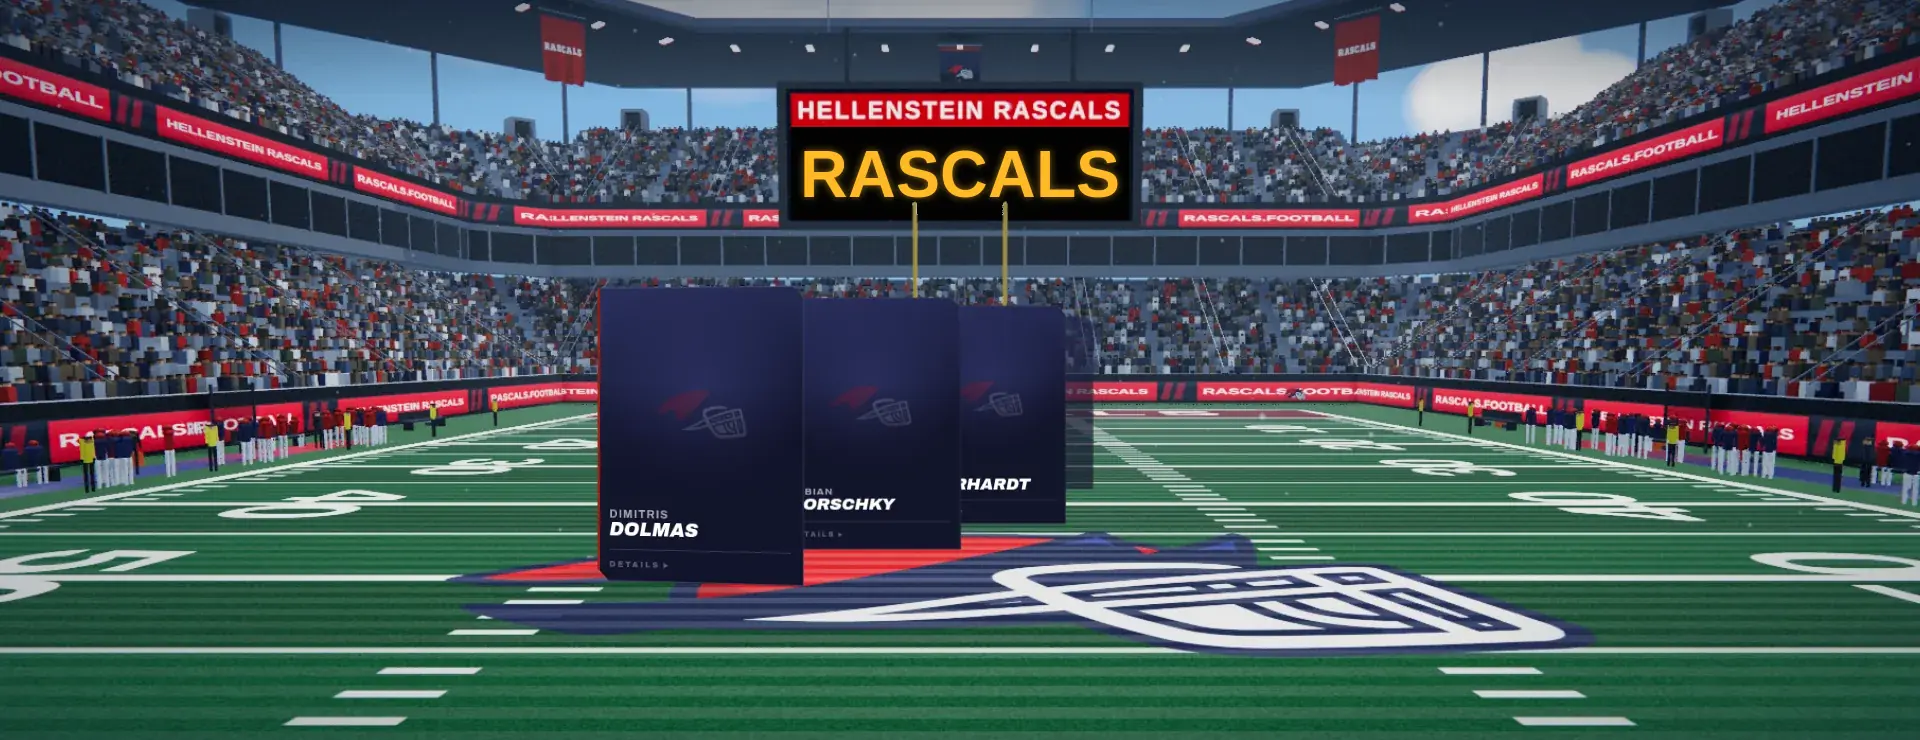
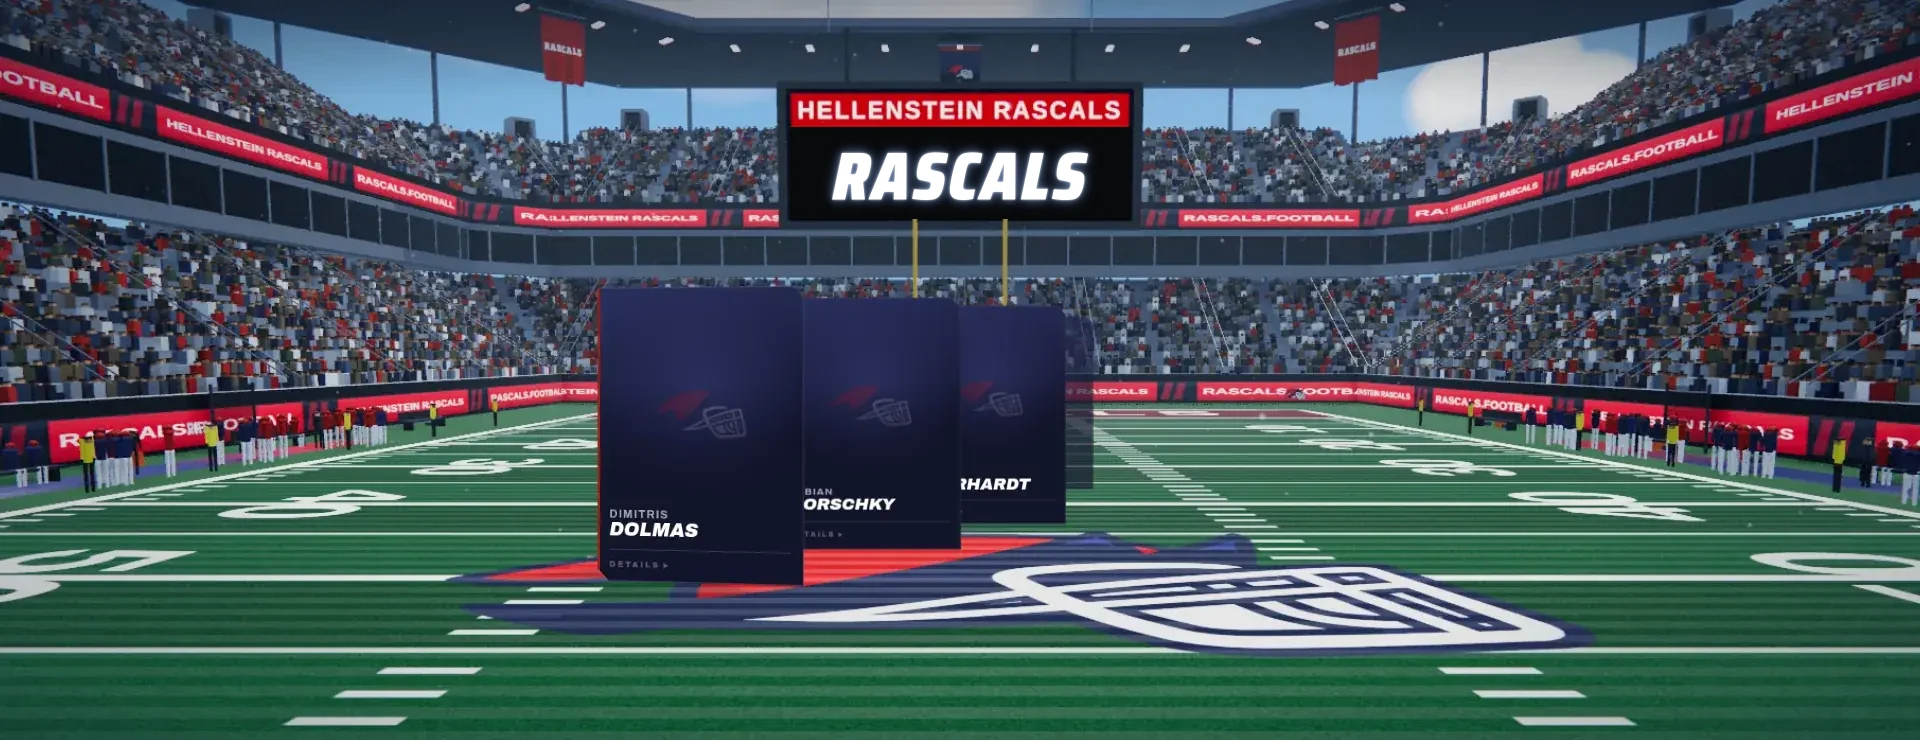
Teamshop: Header ohne Balken, Kacheln mit Produktfotos, Oldschool-Promo, weisse Anzeigetafel
- Startseite: Header liegt durchsichtig ueber dem Stadion, Menuepunkte mit
  rotem Verlauf und Transparenz (aktiv und beim Ueberfahren).
- Kategorie-Kacheln zeigen freigestellte Rascals-Artikel aus dem Shop;
  im Editor per Auswahl austauschbar, eigene Bilder haben Vorrang.
- Promo-Banner wirbt fuer die Oldschool-Kollektion statt "Rascals Defense".
- Banner endet schraeg an der Unterkante des Laufbands.
- Anzeigetafel: RASCALS in Weiss, kursive Saira mit LED-Schein.
- Hero-Text rueckt wie in der Vorlage zur Mitte.

Claude-Session: https://claude.ai/code/session_01VkdeDPYWPcbrmHGSxU5d2N

Changed region(s): [[0.4062, 0.1865, 0.5938, 0.2797]]

diff --git a/shopify-theme/rascals-teamshop/assets/teamshop.css b/shopify-theme/rascals-teamshop/assets/teamshop.css
@@ -211,6 +211,13 @@ body:hover .football-cursor { opacity: .85; }
    ===================================================================== */
 .site-header { z-index: 50; color: var(--white); background: linear-gradient(180deg, #071121 0%, #030a15 100%); border-bottom: 1px solid var(--line-dark); box-shadow: 0 10px 30px rgba(0, 0, 0, .35); }
 .site-header--sticky { position: sticky; top: 0; }
+/* Startseite wie in der Vorlage: kein eigener Balken. Der Header liegt
+   durchsichtig ueber dem Stadionbild; nur ein weicher Verlauf von oben
+   haelt die Menuepunkte lesbar. Der Hero rueckt dafuer nach oben unter
+   den Header und gleicht das mit Innenabstand aus. */
+.shopify-section:has(> .site-header--home) { position: relative; z-index: 50; margin-bottom: -75px; }
+.site-header--home { background: linear-gradient(180deg, rgba(2, 7, 16, .62) 0%, rgba(2, 7, 16, .26) 55%, rgba(2, 7, 16, 0) 100%); border-bottom: 0; box-shadow: none; }
+.template-index .hero-stage { padding-top: 75px; }
 .site-header__inner { display: grid; grid-template-columns: auto 1fr auto; align-items: center; gap: clamp(1rem, 2.4vw, 2.4rem); min-height: 74px; }
 
 /* Logo wie in der Vorlage: ragt als Abzeichen etwas aus der Leiste. */
@@ -241,13 +248,23 @@ body:hover .football-cursor { opacity: .85; }
 }
 .desktop-nav > ul > li > a i { display: inline-flex; opacity: .85; }
 .desktop-nav > ul > li > a i .line-icon { width: 14px; height: 14px; stroke-width: 2; }
-.desktop-nav > ul > li > a:hover { color: #ffb3bd; }
+.desktop-nav > ul > li > a:hover { color: var(--white); }
 /* Aktiver Punkt: rotes Parallelogramm hinter dem Wort. */
-.desktop-nav > ul > li > a[aria-current="page"]::before {
+.desktop-nav > ul > li > a::before {
   position: absolute; z-index: -1; inset: 1.15rem -1rem; content: "";
-  background: linear-gradient(180deg, var(--red-hi) 0%, var(--red) 55%, var(--red-lo) 100%);
-  box-shadow: 0 6px 18px rgba(212, 16, 42, .4);
-  transform: skewX(var(--skew));
+  background: linear-gradient(180deg, rgba(255, 70, 88, .26) 0%, rgba(227, 19, 43, .14) 60%, rgba(150, 8, 24, .1) 100%);
+  border: 1px solid rgba(255, 90, 107, .35);
+  opacity: 0; transform: skewX(var(--skew)) scaleX(.9);
+  transition: opacity .2s ease, transform .2s ease;
+}
+.desktop-nav > ul > li > a:hover::before, .desktop-nav > ul > li > a:focus-visible::before { opacity: 1; transform: skewX(var(--skew)); }
+/* Aktiver Punkt wie in der Vorlage: rotes Parallelogramm mit Verlauf,
+   leicht durchscheinend, damit das Stadion dahinter sichtbar bleibt. */
+.desktop-nav > ul > li > a[aria-current="page"]::before {
+  opacity: 1; transform: skewX(var(--skew));
+  background: linear-gradient(180deg, rgba(255, 61, 80, .92) 0%, rgba(227, 19, 43, .84) 55%, rgba(160, 9, 27, .8) 100%);
+  border: 0; border-top: 1px solid rgba(255, 150, 160, .55);
+  box-shadow: 0 6px 18px rgba(212, 16, 42, .38), inset 0 -10px 18px rgba(90, 0, 12, .25);
 }
 .desktop-nav > ul > li > a[aria-current="page"]:hover { color: var(--white); }
 .desktop-nav .nav-teaser { color: #ff5a6b; }
@@ -313,7 +330,7 @@ body:hover .football-cursor { opacity: .85; }
   background: #0a1626;
 }
 /* Platz unten, in den sich die Kachelreihe schiebt. */
-.hero-stage--under-tiles { min-height: clamp(470px, 32vw, 780px); padding-bottom: 118px; align-items: center; }
+.hero-stage--under-tiles { min-height: clamp(470px, 32vw, 780px); padding-bottom: 138px; align-items: center; }
 .hero-stage__layers { position: absolute; inset: 0; z-index: -1; }
 .hero-stage__layers > * { position: absolute; }
 
@@ -322,7 +339,7 @@ body:hover .football-cursor { opacity: .85; }
 .hero-stage__backdrop {
   z-index: 0; inset: 0; width: 100%; height: 100%;
   object-fit: cover; object-position: center 30%;
-  filter: brightness(.46) saturate(.55) contrast(1.18) blur(2px);
+  filter: brightness(.5) saturate(.6) contrast(1.18) blur(1.4px);
   transform: scale(1.3); transform-origin: 50% 82%;
 }
 .hero-stage__layers::before {
@@ -384,7 +401,7 @@ body:hover .football-cursor { opacity: .85; }
 }
 
 .hero-stage__content { position: relative; z-index: 2; padding-block: clamp(2rem, 3vw, 2.8rem) 1rem; }
-.hero-stage__copy { max-width: 640px; margin-left: clamp(0px, 20vw, 300px); }
+.hero-stage__copy { max-width: 640px; margin-left: clamp(0px, 24vw, 420px); }
 
 .hero-stage__eyebrow { margin: 0 0 .9rem; font-size: .9rem; font-style: italic; font-weight: 400; font-stretch: 100%; letter-spacing: .55em; color: #f2f4f7; text-transform: uppercase; }
 
@@ -426,10 +443,10 @@ body:hover .football-cursor { opacity: .85; }
    an ihrer Aussenkante rot, wie in der Vorlage.
    ===================================================================== */
 .cat-tiles { position: relative; z-index: 6; }
-.cat-tiles--overlap { margin-top: -128px; }
+.cat-tiles--overlap { margin-top: -146px; }
 .cat-tiles__rail { display: flex; gap: 8px; padding: 0 clamp(1rem, 3vw, 2.6rem) 10px; overflow-x: auto; scrollbar-width: none; }
 .cat-tiles__rail::-webkit-scrollbar { display: none; }
-.cat-tile { flex: 1 1 0; min-width: 140px; height: 118px; }
+.cat-tile { flex: 1 1 0; min-width: 140px; height: 138px; }
 .cat-tile:focus-visible { outline: none; }
 .cat-tile__skew {
   position: relative; display: block; height: 100%; overflow: hidden;
@@ -448,8 +465,10 @@ body:hover .football-cursor { opacity: .85; }
 .cat-tile__media { position: absolute; transform: skewX(var(--unskew)); }
 .cat-tile__media img { width: 100%; height: 100%; transition: transform .45s cubic-bezier(.2, .8, .2, 1); }
 .cat-tile:hover .cat-tile__media img { transform: scale(1.07); }
-.cat-tile--cutout .cat-tile__media { inset: 6% 12% 34% 12%; }
-.cat-tile--cutout .cat-tile__media img { object-fit: contain; filter: drop-shadow(0 8px 12px rgba(0, 0, 0, .6)); }
+.cat-tile--cutout .cat-tile__media { inset: 7% 14% 31% 14%; }
+/* Lichtkegel hinter dem freigestellten Artikel, wie in der Vorlage. */
+.cat-tile--cutout .cat-tile__skew { background: radial-gradient(ellipse 60% 48% at 50% 40%, rgba(70, 98, 140, .42), rgba(70, 98, 140, 0) 70%), linear-gradient(180deg, rgba(22, 33, 52, .94) 0%, rgba(8, 14, 26, .97) 100%); }
+.cat-tile--cutout .cat-tile__media img { object-fit: contain; filter: drop-shadow(0 0 1px rgba(255, 255, 255, .35)) drop-shadow(0 10px 12px rgba(0, 0, 0, .65)); }
 .cat-tile--fill .cat-tile__media { inset: -2% -14%; }
 .cat-tile--fill .cat-tile__media img { object-fit: cover; opacity: .8; }
 .cat-tile--fill .cat-tile__media::after { position: absolute; inset: 0; content: ""; background: linear-gradient(0deg, rgba(8, 14, 26, .96) 0%, rgba(8, 14, 26, .6) 38%, rgba(8, 14, 26, .06) 72%); }
@@ -544,7 +563,10 @@ body:hover .football-cursor { opacity: .85; }
    Bilder laufen darunter weiter, und es bleibt keine helle Luecke. */
 :root { --play-ticker-h: calc(2rem + clamp(1.1rem, 1.9vw, 1.6rem) * 1.2); }
 .shopify-section:has(.promo-band) + .shopify-section > .play-ticker { margin-top: calc(-1 * var(--play-ticker-h)); }
-.shopify-section:has(.promo-band):has(+ .shopify-section > .play-ticker) .promo-band { min-height: calc(196px + var(--play-ticker-h)); border-bottom: 0; }
+/* Unterkante des Banners laeuft mit der Schraege des Laufbands (skewY -1deg,
+   rechts um tan(1deg) * Breite hoeher): unter dem Laufband bleibt kein
+   Bildstreifen stehen, links reicht das Bild entsprechend tiefer. */
+.shopify-section:has(.promo-band):has(+ .shopify-section > .play-ticker) .promo-band { min-height: calc(196px + var(--play-ticker-h)); border-bottom: 0; clip-path: polygon(0 0, 100% 0, 100% calc(100% - 1.75vw - 1px), 0 calc(100% - 1px)); }
 @media (min-width: 1101px) {
   .shopify-section:has(.promo-band):has(+ .shopify-section > .play-ticker) .promo-band__copy,
   .shopify-section:has(.promo-band):has(+ .shopify-section > .play-ticker) .promo-band__product { padding-bottom: calc(var(--play-ticker-h) + .6rem); }
@@ -1021,8 +1043,8 @@ body:hover .football-cursor { opacity: .85; }
   .hero-stage__buttons { display: grid; grid-template-columns: 1fr; gap: .8rem; padding-inline: .5rem; }
   .hero-stage__buttons .button { width: 100%; }
 
-  .cat-tiles--overlap { margin-top: -108px; }
-  .cat-tile { min-width: 128px; height: 112px; }
+  .cat-tiles--overlap { margin-top: -120px; }
+  .cat-tile { min-width: 128px; height: 128px; }
 
   .trust-bar__inner li { flex: 1 1 100%; }
 
